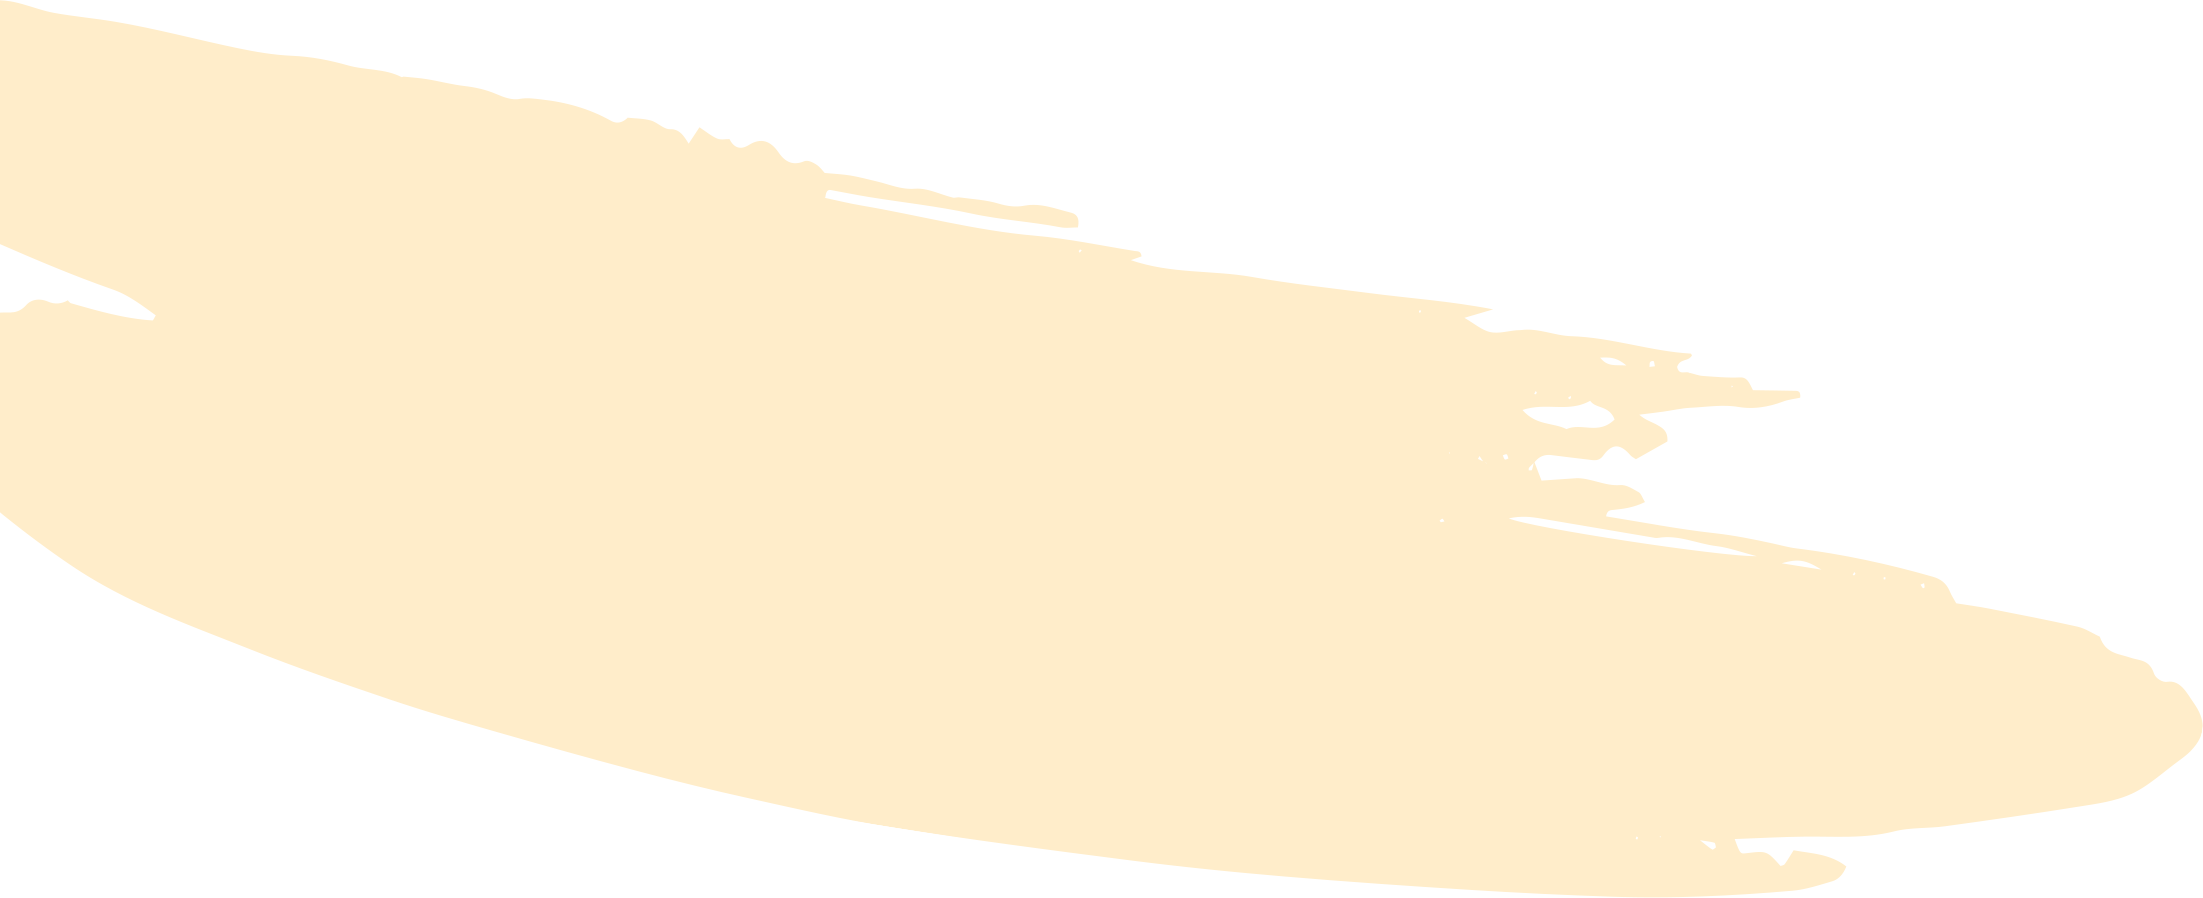
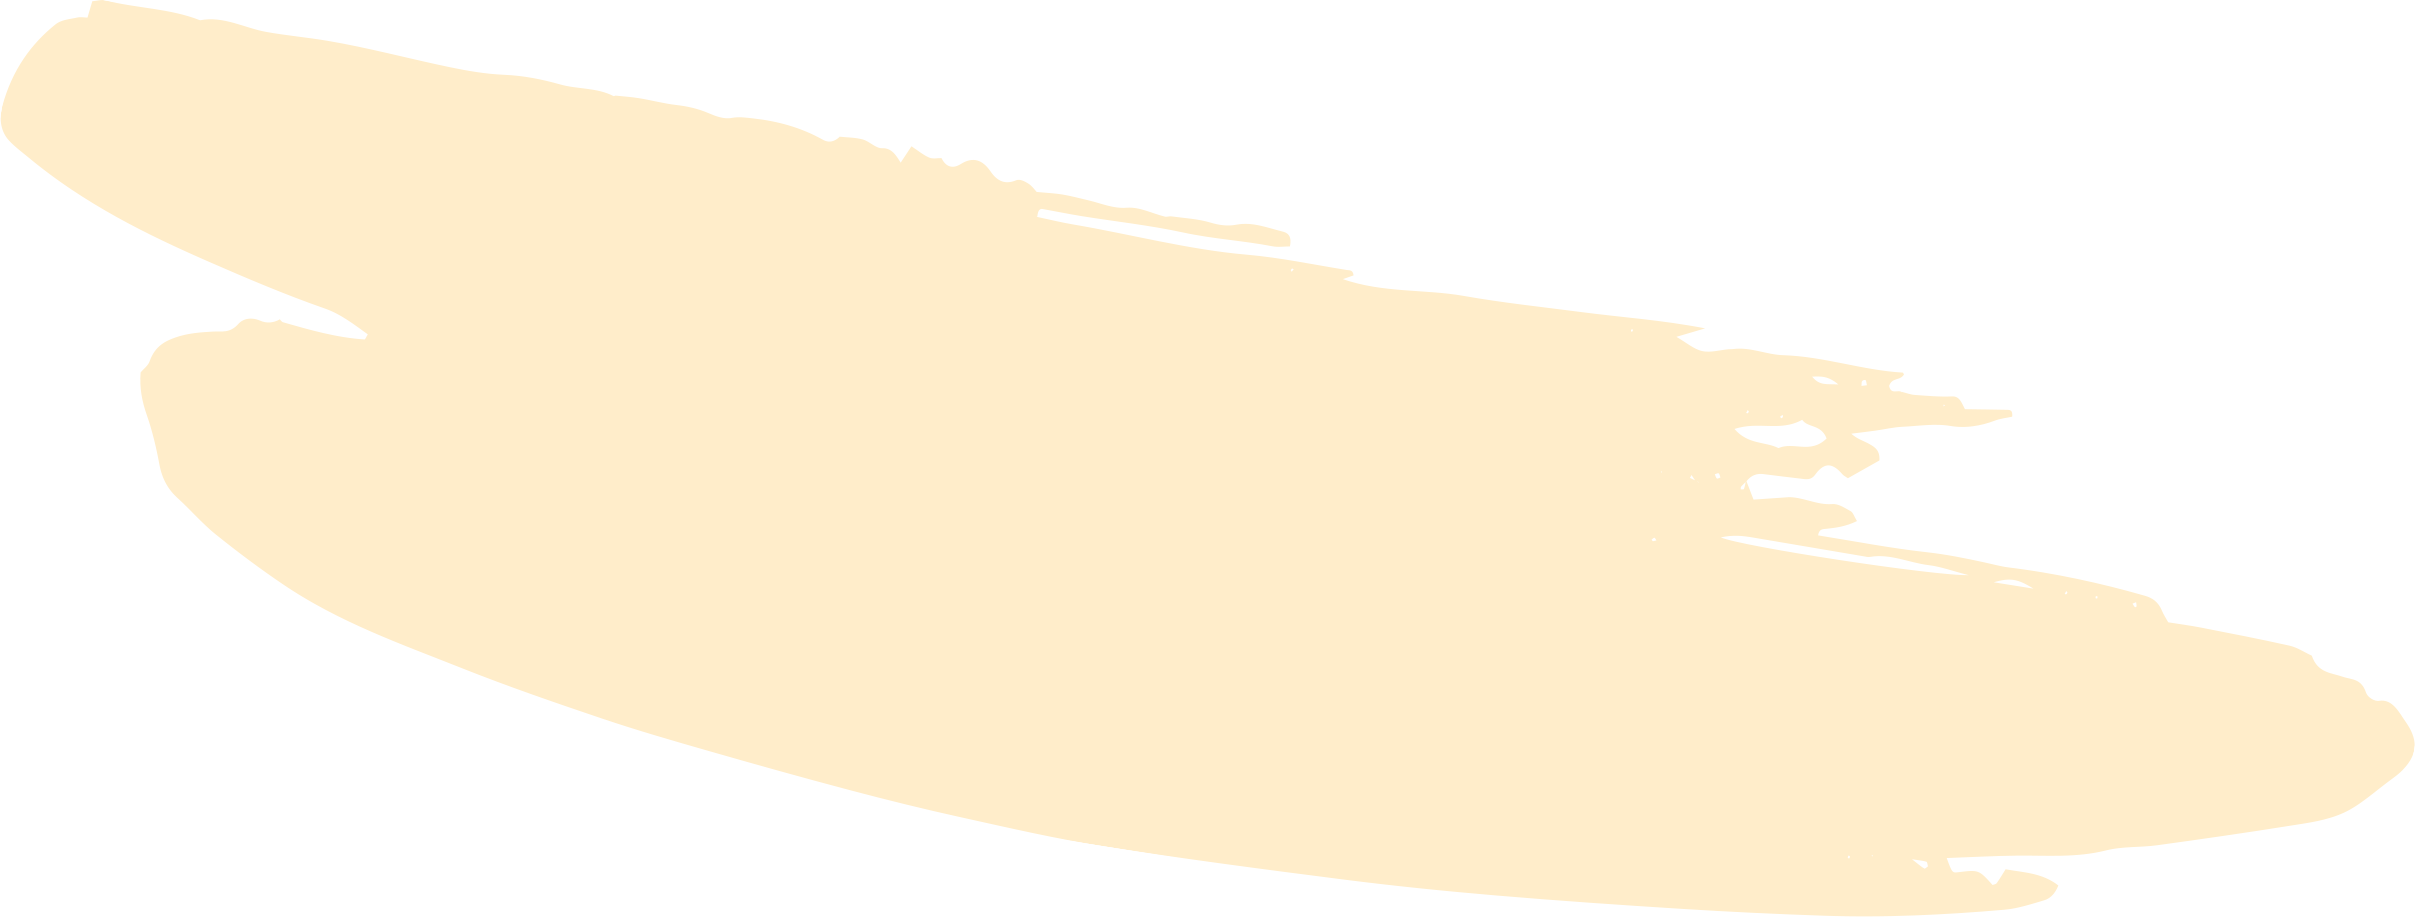
230424_10
1. sec01 배경화면 이미지 위치 재조정
2. sec01배경화면 이미지 재추출

diff --git a/assets/scss/component/_main.scss b/assets/scss/component/_main.scss
@@ -249,8 +249,8 @@ main {
         //section01 INFINITE FUN
         &.sec01 {
             background-image: url('./../images/main/brush01.png');
-            background-size: cover;
-            background-position: left bottom;
+            background-size: auto;
+            background-position: calc(50% - 20rem) 10rem;
             .sec-inner {
                 .sec-tit {
                     h4 {

diff --git a/assets/css/style.css b/assets/css/style.css
@@ -559,8 +559,8 @@ main section:not(.sec-main) {
 }
 main section.sec01 {
   background-image: url("./../images/main/brush01.png");
-  background-size: cover;
-  background-position: left bottom;
+  background-size: auto;
+  background-position: calc(50% - 20rem) 10rem;
 }
 main section.sec01 .sec-inner .sec-tit h4 {
   color: #009bff;
